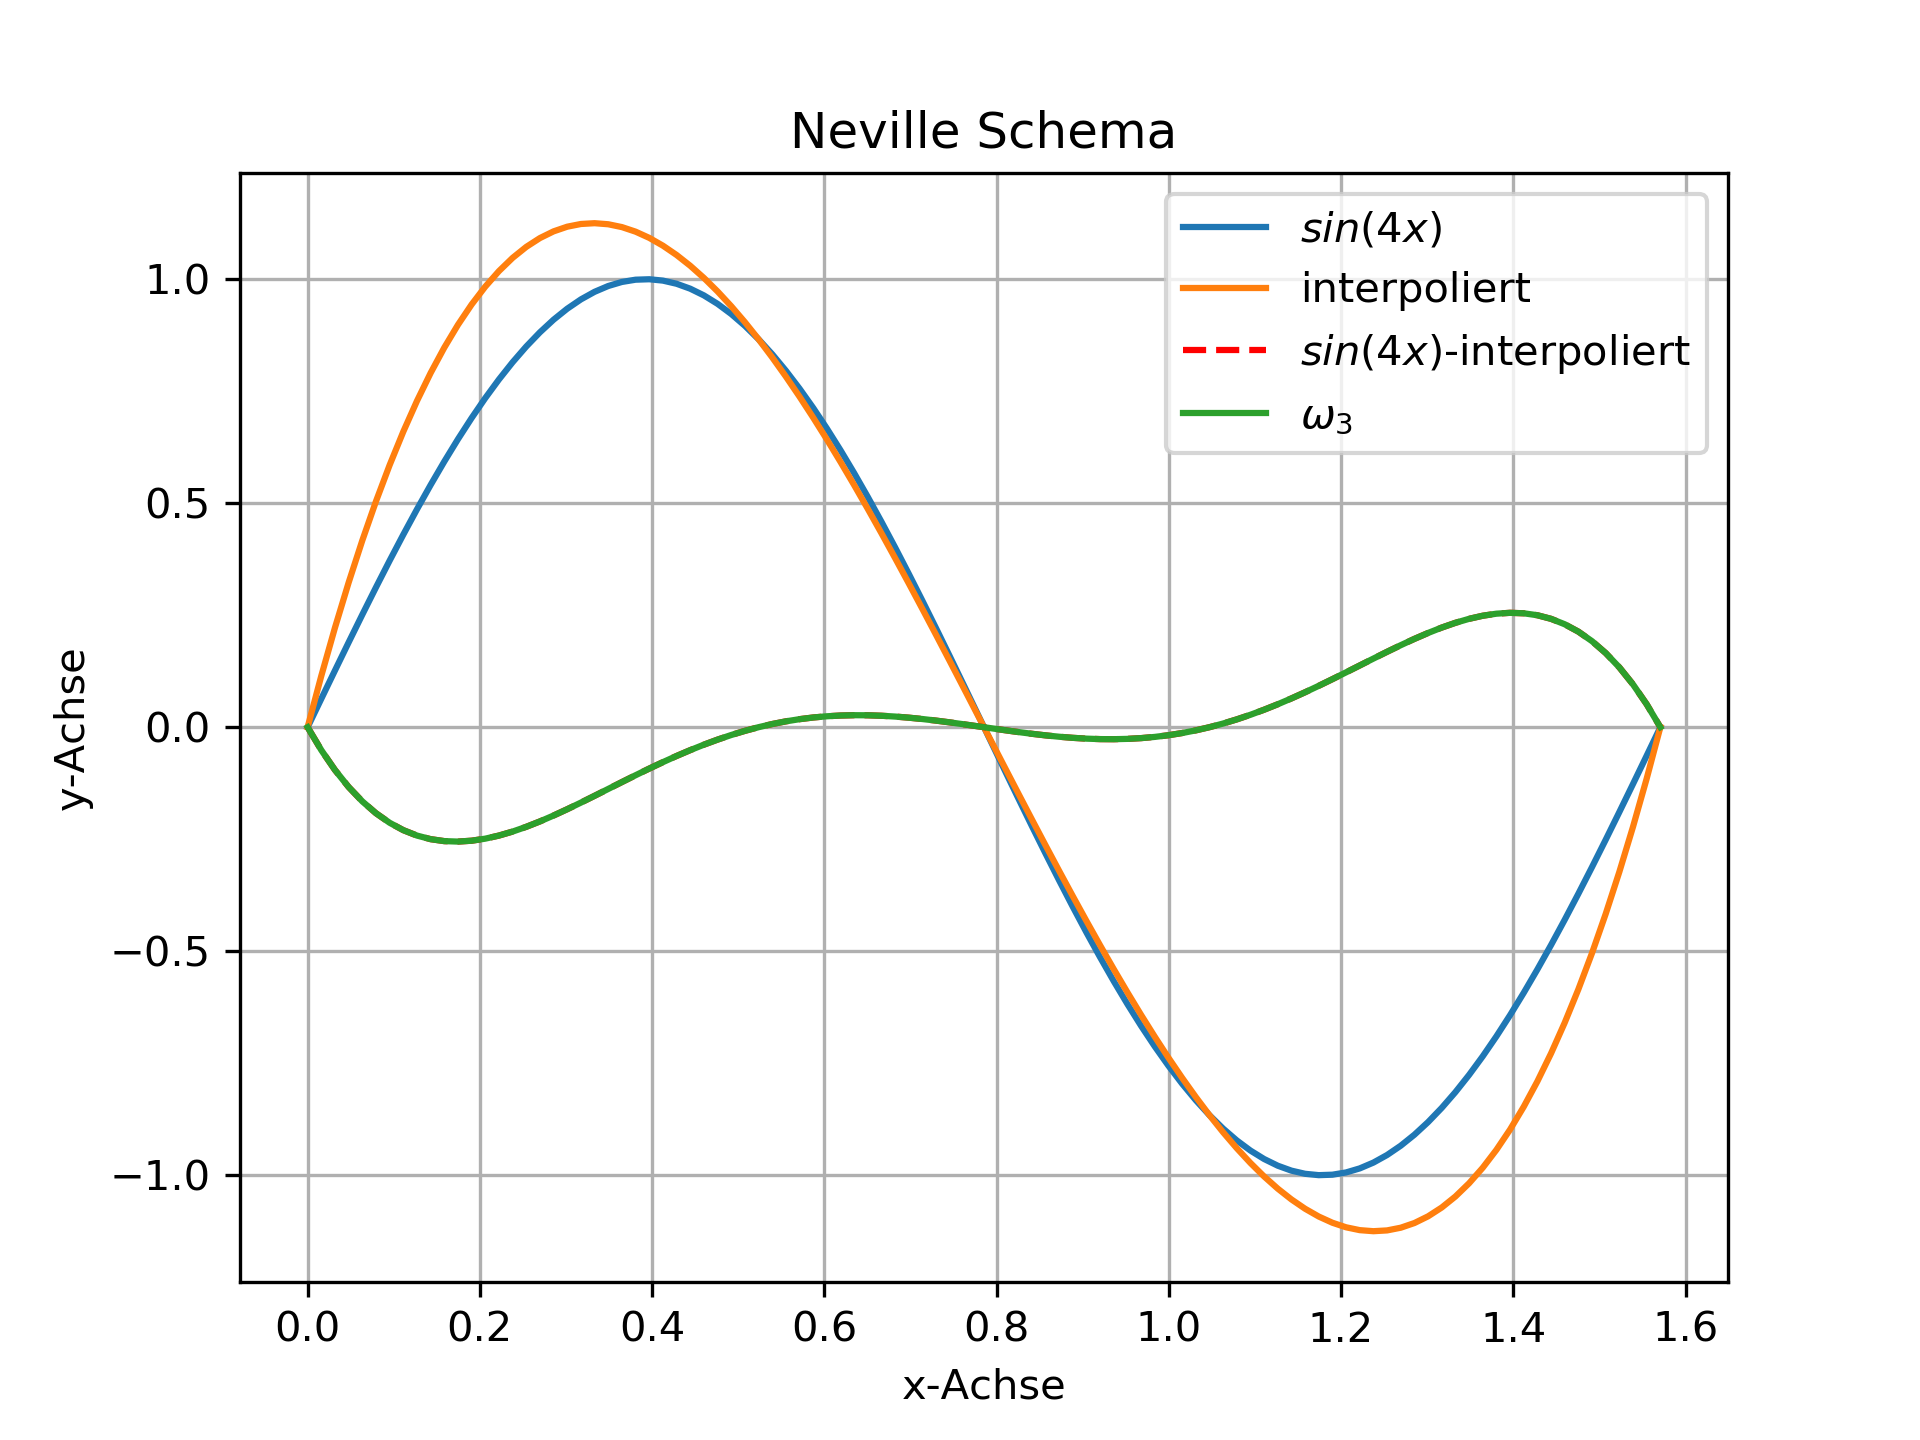
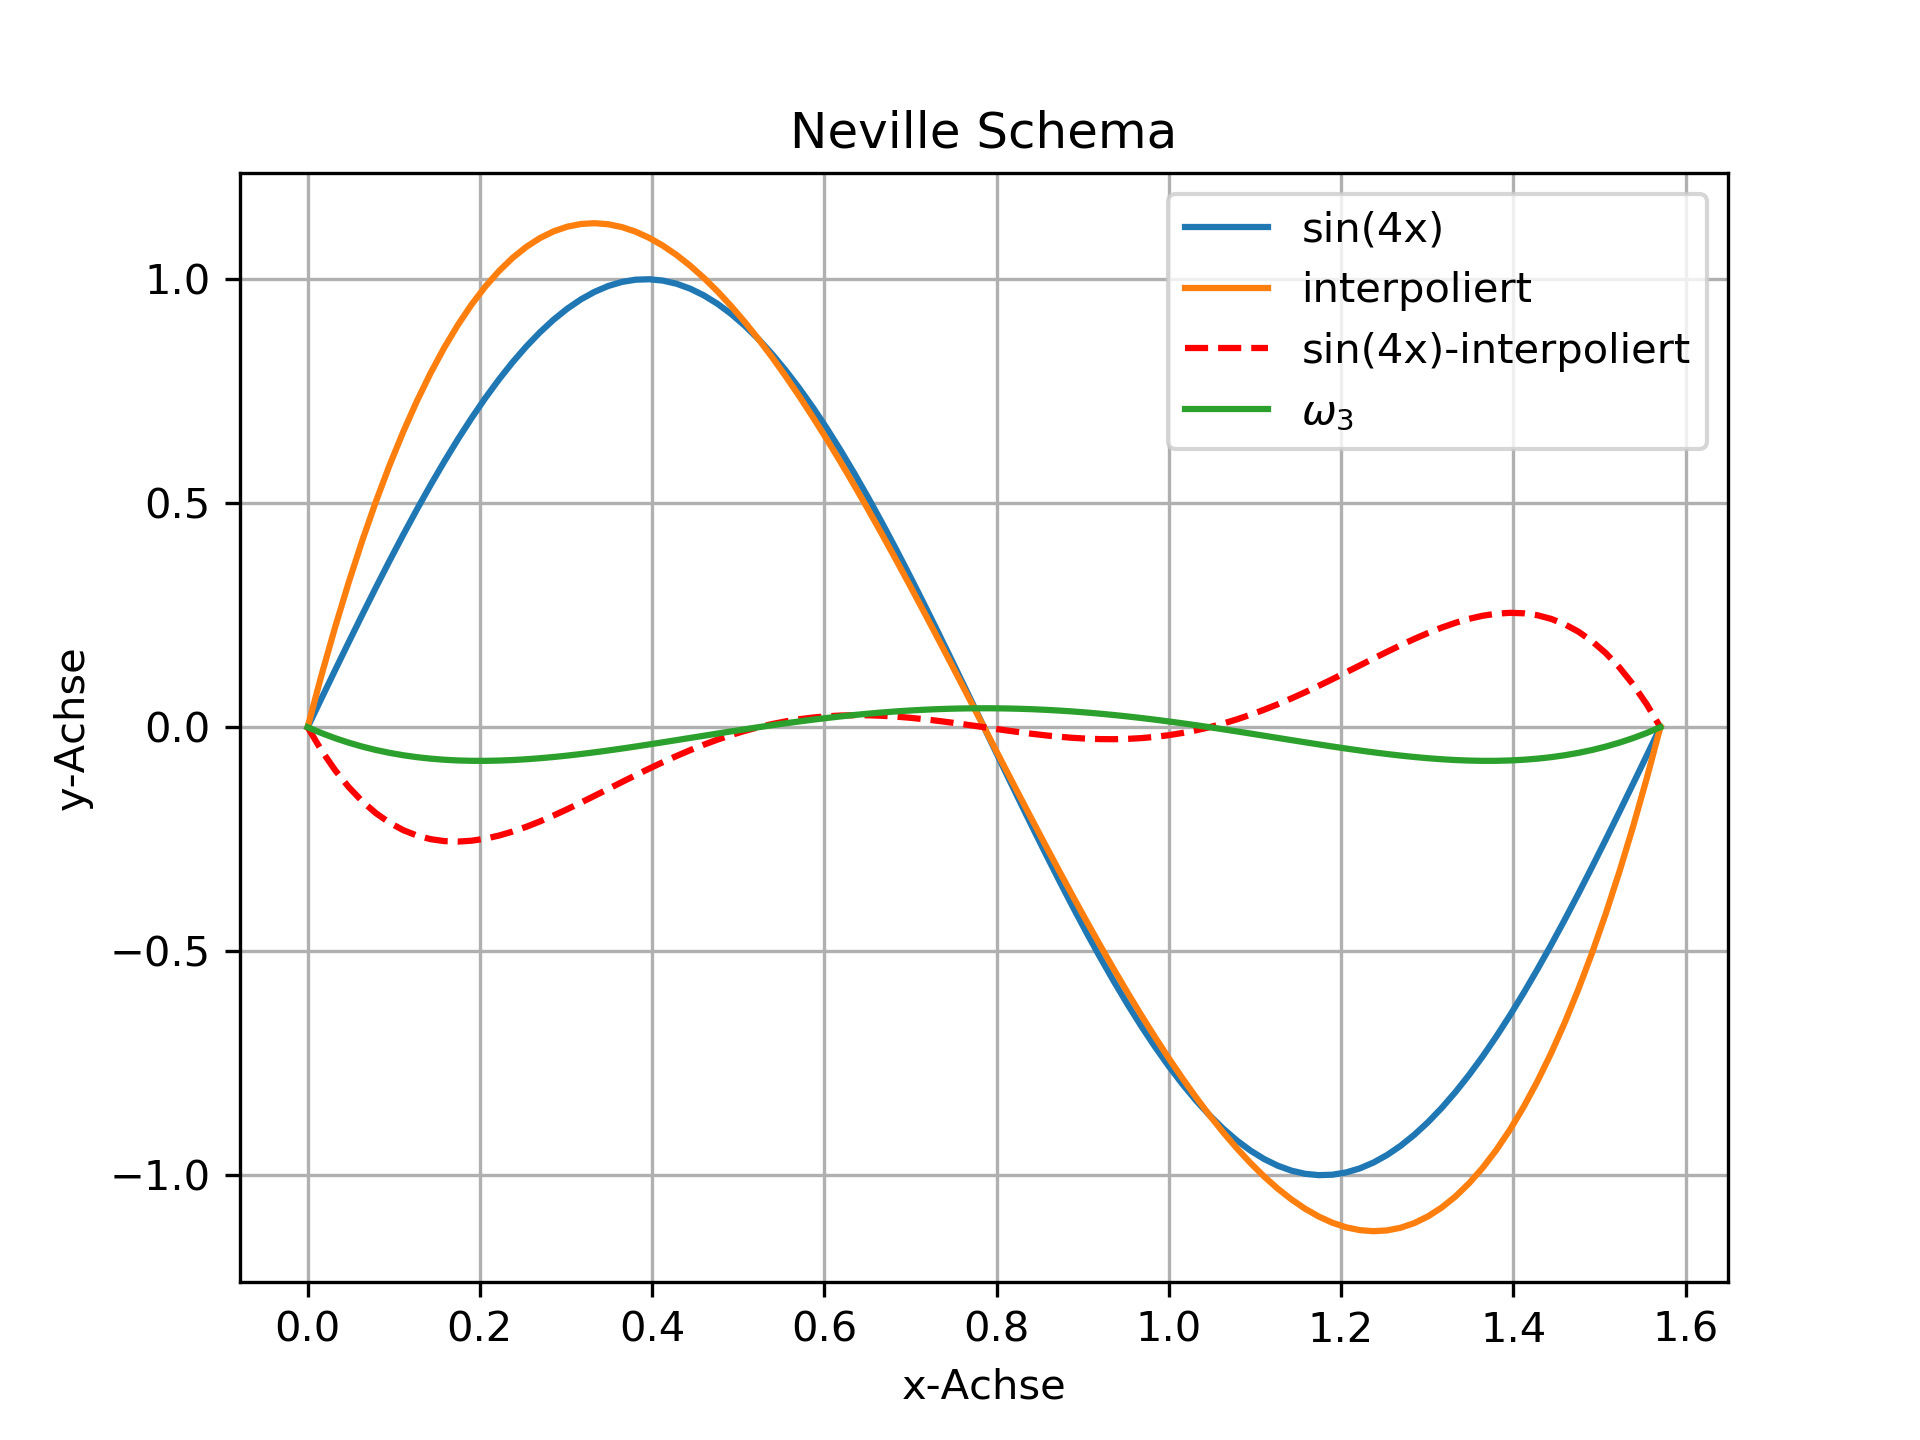
c & p error

diff --git a/Programmieruebung1/solution.py b/Programmieruebung1/solution.py
@@ -87,7 +87,7 @@ class Neville:
         plt.plot(x, y1, label=f'{self.func_name}')
         plt.plot(x, y2, label='interpoliert')
         plt.plot(x, y3, 'r--', label=f'{self.func_name}-interpoliert')
-        plt.plot(x, y3, label=r'$\omega_3$')
+        plt.plot(x, y4, label=r'$\omega_3$')
 
         #  Labels  fuer x- und y-Achse
         plt.xlabel('x-Achse')
